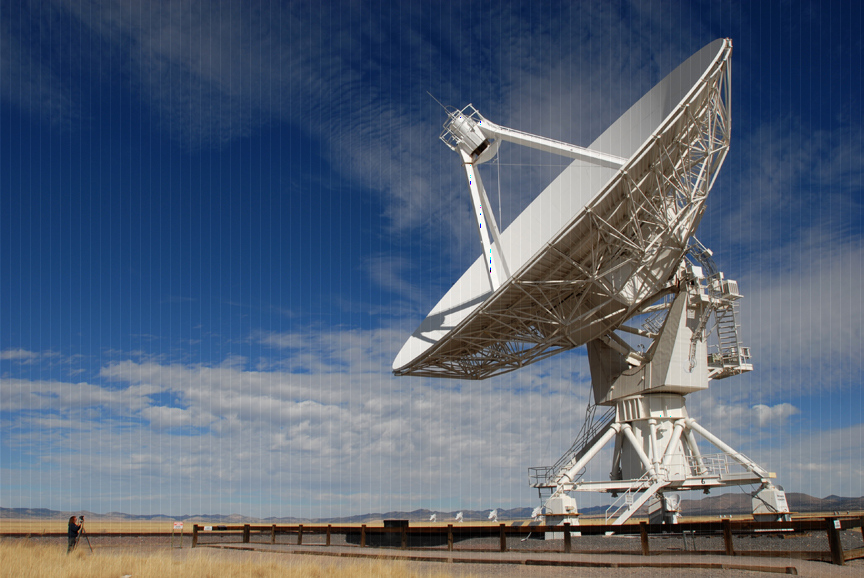
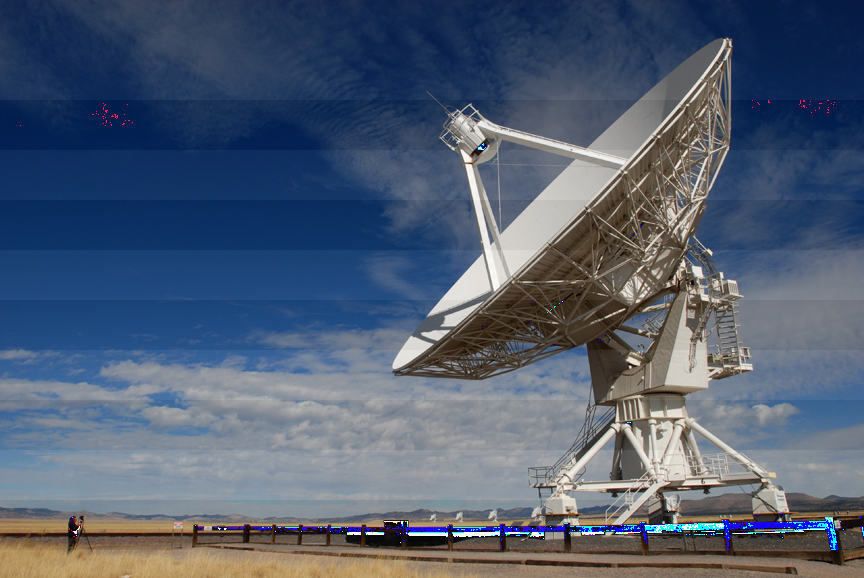
fixed width of noise bands. Noise can now be wider than one pixel.

Changed region(s): [[0.2812, 0.872, 0.9688, 0.9654]]

diff --git a/image_editor.py b/image_editor.py
@@ -326,7 +326,40 @@ def add_noise02():
     pass
 
 def band_noise_horizontal(image, width, period, magnitude):
-    image[::period, :,: ] = image[::period, :,: ] + magnitude
+    # image[::period, :,: ] = image[::period, :,: ] + magnitude
+    band = np.arange(width)
+
+    tiled = np.tile(band, int(image.shape[0]/period))
+    tiled = tiled.reshape(-1, width)
+
+    addition_arr = np.arange(period, image.shape[0], period)
+
+    addition_arr = addition_arr.T
+
+    addition_arr = np.expand_dims(addition_arr,axis=1)
+
+    # print(addition_arr)
+
+    addition_arr = np.repeat(addition_arr, tiled.shape[1], axis=1)
+
+    print('add shape')
+    print(addition_arr.shape)
+
+    print('tiled shape')
+    print(tiled.shape)
+
+    tiled = tiled + addition_arr
+
+    tiled = tiled.flatten()
+
+    image[tiled, :, :] = image[tiled, :, :] + magnitude
+
+    print(tiled)
+    # print(tiled.shape)
+
+    print(addition_arr)
+
+
     return image
 
 def band_noise_vertical(image, width, period, magnitude):

diff --git a/main.py b/main.py
@@ -42,5 +42,5 @@ image = cv2.imread('test.jpg')
 # img = image_editor.add_Gaussian_noise(image, 50)
 # cv2.imwrite('noisyimage.png', img)
 
-img = image_editor.band_noise_vertical(image, 30, 10, 10)
+img = image_editor.band_noise_horizontal(image, 50, 100, -10)
 cv2.imwrite('noisyimage.png', img)
